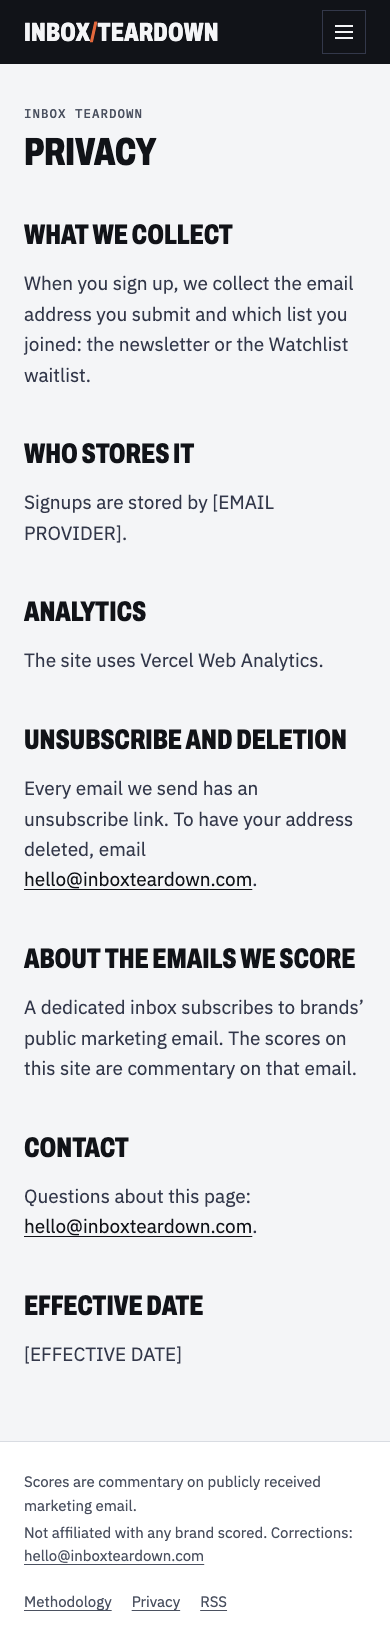
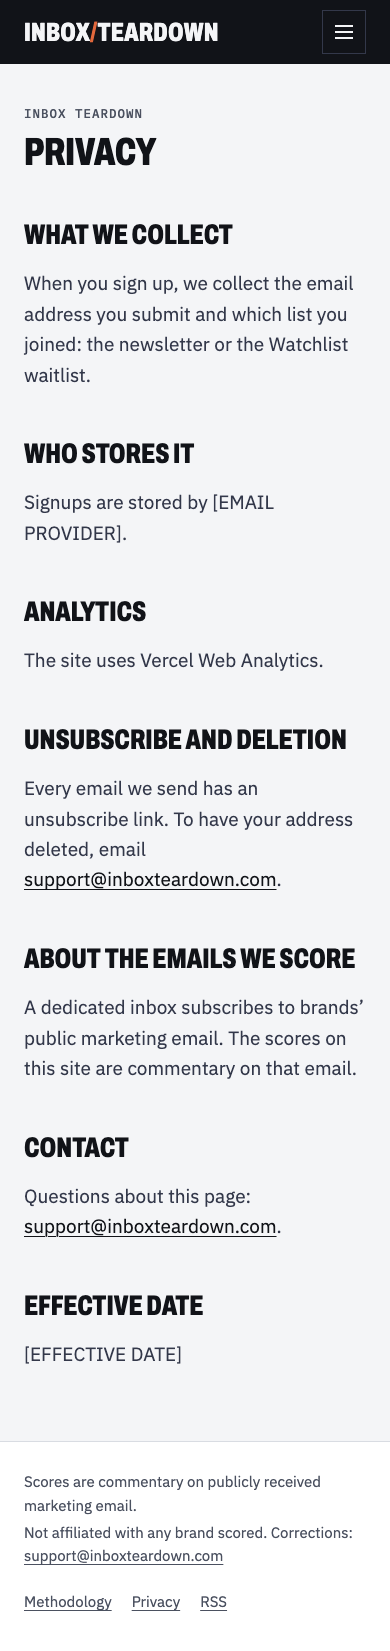
Use support@inboxteardown.com as the contact address
Changed once in site.ts; the footer, rescore mailto, methodology, privacy
page, and the prelaunch footer rule all read it from config. The footer
rule test now uses the configured address and rejects the old one.

diff --git a/tests/prelaunch.test.ts b/tests/prelaunch.test.ts
@@ -13,10 +13,12 @@ import {
   scriptSrcs,
   thirdPartyScripts,
 } from '../scripts/prelaunch-rules.ts';
+import { SITE } from '../src/config/site.ts';
 
 const HOST = 'www.inboxteardown.com';
 const SITE_URL = `https://${HOST}`;
-const EMAIL = 'hello@inboxteardown.com';
+// The footer rule checks the configured contact address.
+const EMAIL = SITE.contactEmail;
 const page = (path: string, html: string) => ({ path, html });
 
 describe('script hosts', () => {
@@ -133,6 +135,12 @@ describe('og:image', () => {
 });
 
 describe('footer contact', () => {
+  it('checks for support@inboxteardown.com', () => {
+    expect(EMAIL).toBe('support@inboxteardown.com');
+  });
+  it('fails a footer that still shows the old address', () => {
+    expect(checkFooterContact([page('a.html', '<footer><a href="mailto:hello@inboxteardown.com">hello@inboxteardown.com</a></footer>')], EMAIL)).toHaveLength(1);
+  });
   it('passes when the footer links the contact address', () => {
     expect(checkFooterContact([page('a.html', `<footer><a href="mailto:${EMAIL}">${EMAIL}</a></footer>`)], EMAIL)).toEqual([]);
   });

diff --git a/src/config/site.ts b/src/config/site.ts
@@ -4,7 +4,7 @@
 export const SITE = {
   name: 'Inbox Teardown',
   siteUrl: 'https://www.inboxteardown.com',
-  contactEmail: 'hello@inboxteardown.com',
+  contactEmail: 'support@inboxteardown.com',
   // TODO(andrew): name the email provider once chosen. While null, the privacy
   // page shows the [EMAIL PROVIDER] placeholder.
   emailProvider: null as string | null,
